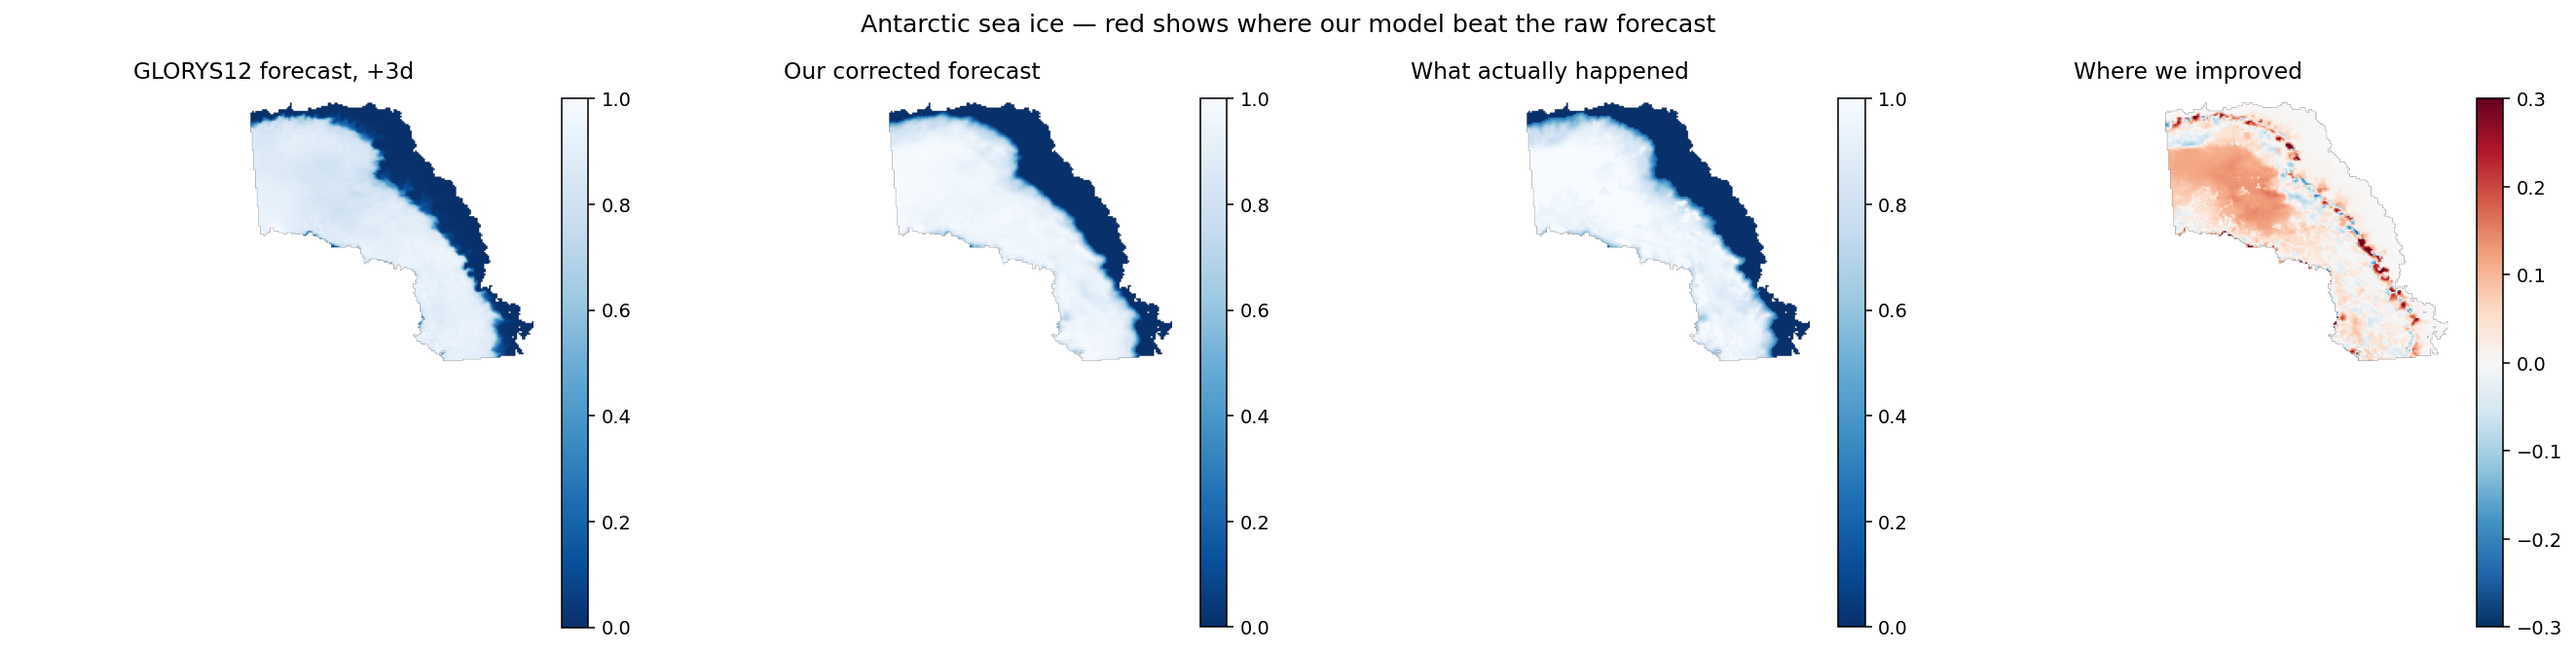
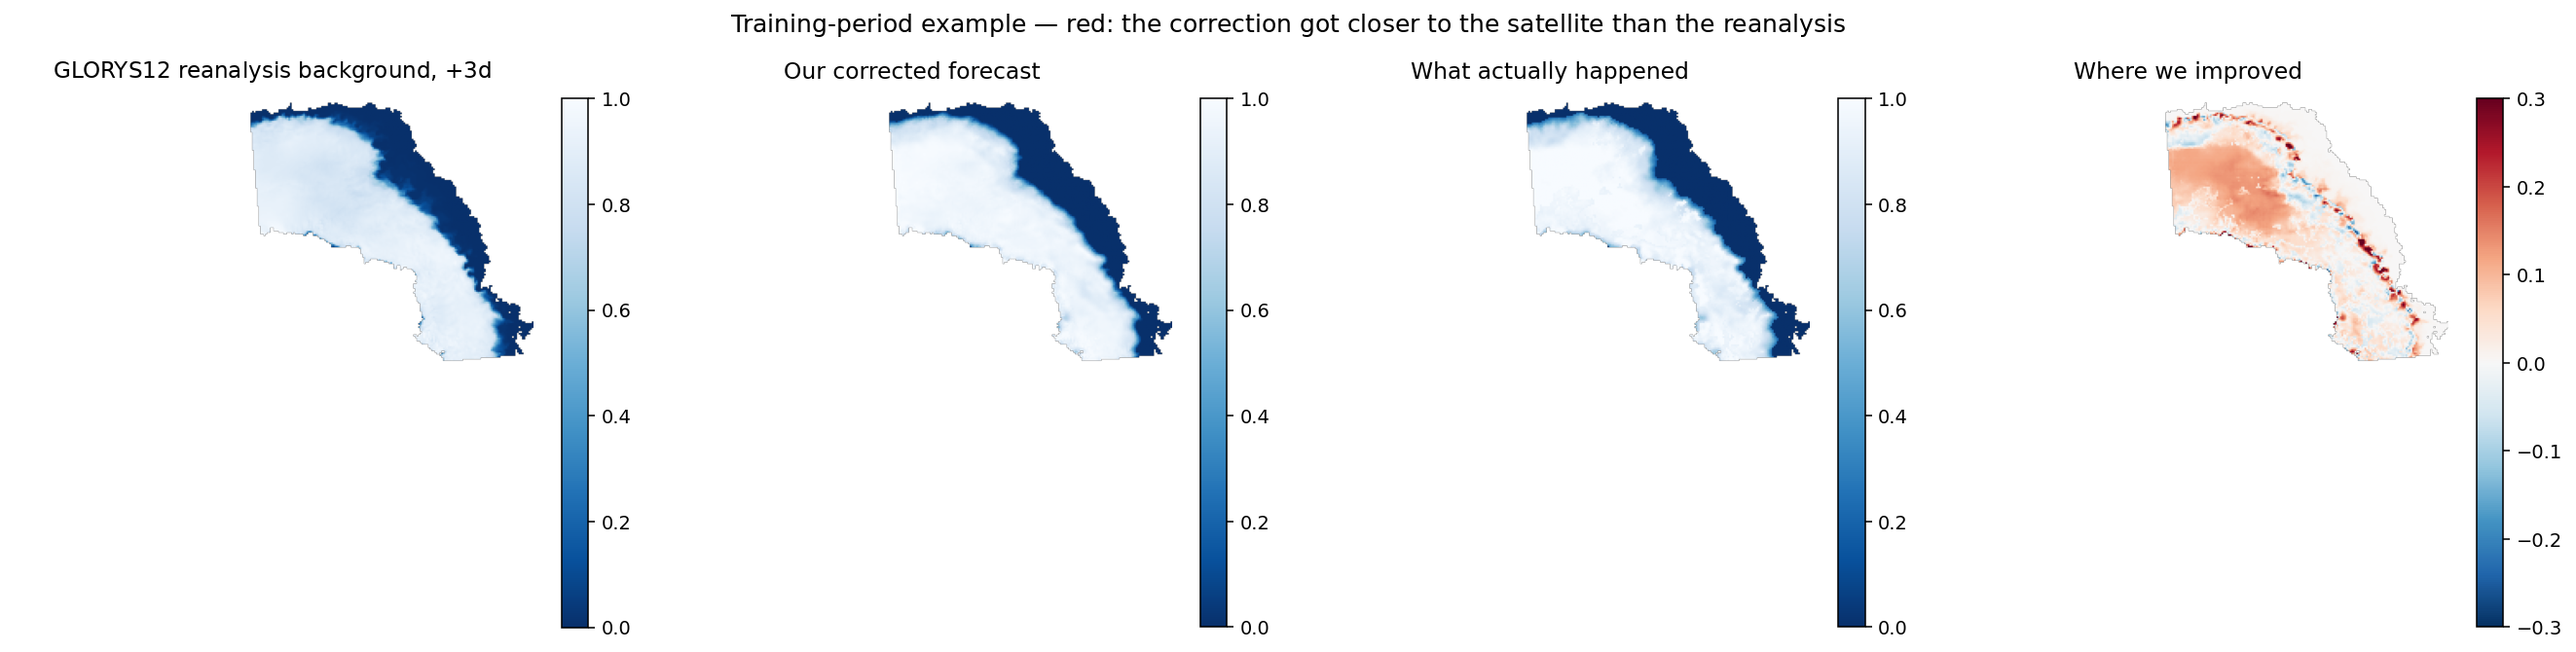
Skill curve and demo figure: GLORYS12 is a reanalysis, scores are an upper bound
Training-time scores against a reanalysis background are an upper bound on
live skill, and GLORYS12 is a reanalysis background, not a forecast. Titles
in the notebook generator, the notebook, both figures and PROTOTYPE_RESULTS
now say so.

Changed region(s): [[0.2789, 0.0299, 0.7128, 0.0597], [0.0, 0.0896, 0.1859, 0.1194]]

diff --git a/dakshin/kaggle/make_notebook.py b/dakshin/kaggle/make_notebook.py
@@ -372,10 +372,10 @@ def main() -> int:
             "\n"
             "ax1.plot(df.index, df['model'], 'o-', lw=2.5, label='Our model', color='#1b6478')\n"
             "ax1.plot(df.index, df['persistence'], 's--', lw=2, label='Persistence', color='#a8611c')\n"
-            "ax1.plot(df.index, df['raw_background'], '^:', lw=2, label='Raw GLORYS12', color='#888')\n"
+            "ax1.plot(df.index, df['raw_background'], '^:', lw=2, label='Raw GLORYS12 (reanalysis)', color='#888')\n"
             "ax1.set_xlabel('Forecast horizon (days ahead)')\n"
             "ax1.set_ylabel('RMSE — sea-ice concentration')\n"
-            "ax1.set_title('Error grows with horizon; ours grows slowest')\n"
+            "ax1.set_title('Training-time test, reanalysis background: an upper bound')\n"
             "ax1.legend(); ax1.grid(alpha=.3); ax1.set_xticks(df.index)\n"
             "\n"
             "gain = (1 - df['model'] / df['persistence']) * 100\n"
@@ -384,7 +384,7 @@ def main() -> int:
             "ax2.axhline(0, color='k', lw=1)\n"
             "ax2.set_xlabel('Forecast horizon (days ahead)')\n"
             "ax2.set_ylabel('% better than persistence')\n"
-            "ax2.set_title('Our advantage vs the hardest baseline')\n"
+            "ax2.set_title('Gain vs persistence (training-time, upper bound)')\n"
             "ax2.grid(alpha=.3, axis='y'); ax2.set_xticks(df.index)\n"
             "\n"
             "plt.tight_layout(); plt.savefig('isih_skill_curve.png', dpi=140, bbox_inches='tight')\n"
@@ -417,7 +417,7 @@ def main() -> int:
             "show = lambda a: np.where(valid_i, a, np.nan)\n"
             "\n"
             "fig, axes = plt.subplots(1, 4, figsize=(19, 5))\n"
-            "panels = [(show(bg_i), f'GLORYS12 forecast, +{DEMO_LEAD}d'),\n"
+            "panels = [(show(bg_i), f'GLORYS12 reanalysis background, +{DEMO_LEAD}d'),\n"
             "          (show(pred_i), 'Our corrected forecast'),\n"
             "          (show(truth_i), 'What actually happened'),\n"
             "          (show(np.abs(bg_i-truth_i) - np.abs(pred_i-truth_i)), 'Where we improved')]\n"
@@ -427,7 +427,7 @@ def main() -> int:
             "                   **(dict(vmin=-.3, vmax=.3) if is_diff else dict(vmin=0, vmax=1)))\n"
             "    ax.set_title(title, fontsize=12); ax.axis('off')\n"
             "    plt.colorbar(im, ax=ax, fraction=0.046)\n"
-            "plt.suptitle('Antarctic sea ice — red shows where our model beat the raw forecast',\n"
+            "plt.suptitle('Training-period example — red: the correction got closer to the satellite than the reanalysis',\n"
             "             fontsize=13)\n"
             "plt.tight_layout(); plt.savefig('demo_comparison.png', dpi=140, bbox_inches='tight')\n"
             "plt.show()\n"

diff --git a/docs/PROTOTYPE_RESULTS.md b/docs/PROTOTYPE_RESULTS.md
@@ -124,7 +124,7 @@ Either outcome is worth having before a viva. Not yet run.
 ## What the model actually is
 
 ```
-corrected SIC = clip( GLORYS12 forecast + model's predicted correction, 0, 1 )
+corrected SIC = clip( GLORYS12 reanalysis background + model's predicted correction, 0, 1 )
 ```
 
 It predicts the *correction*, never the field. An untrained model outputs
